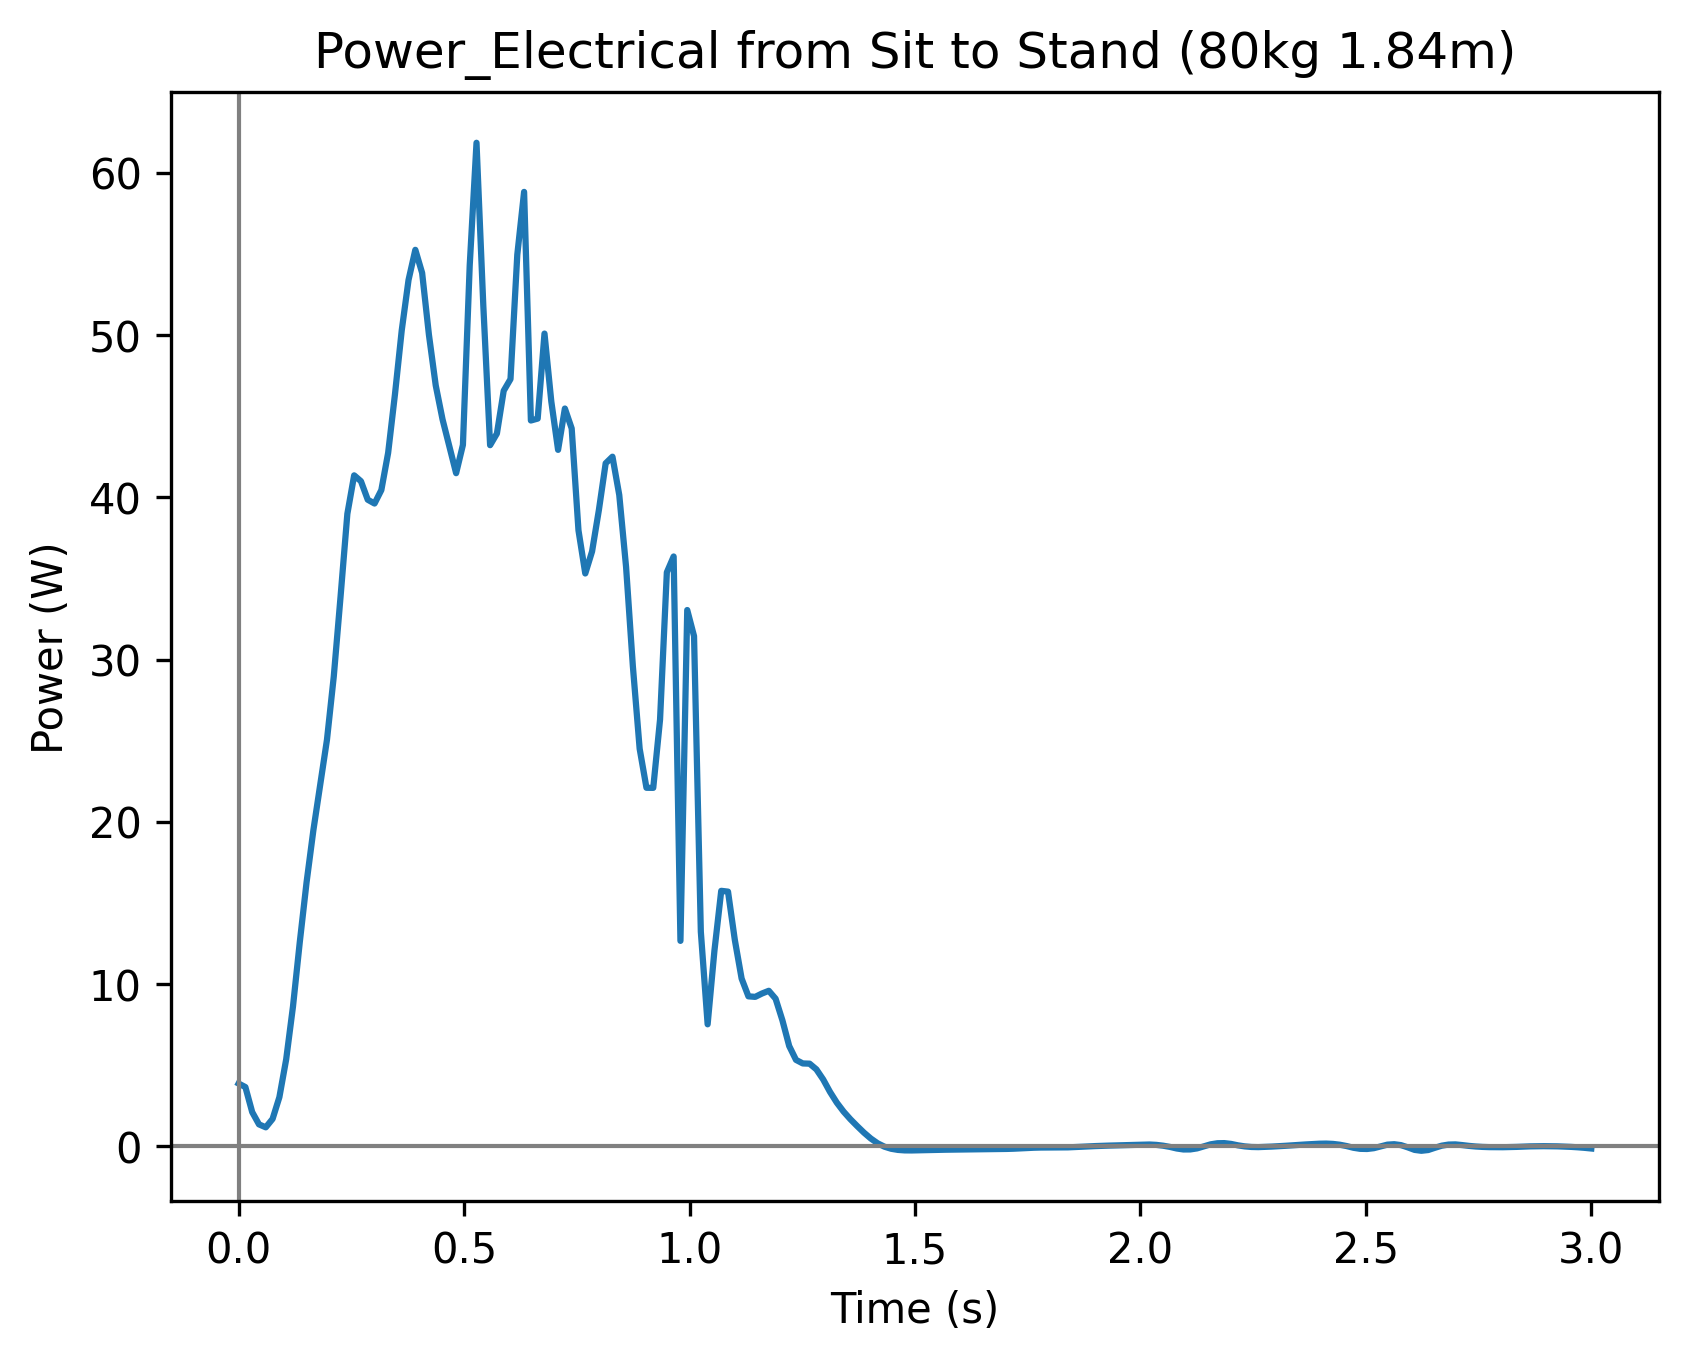
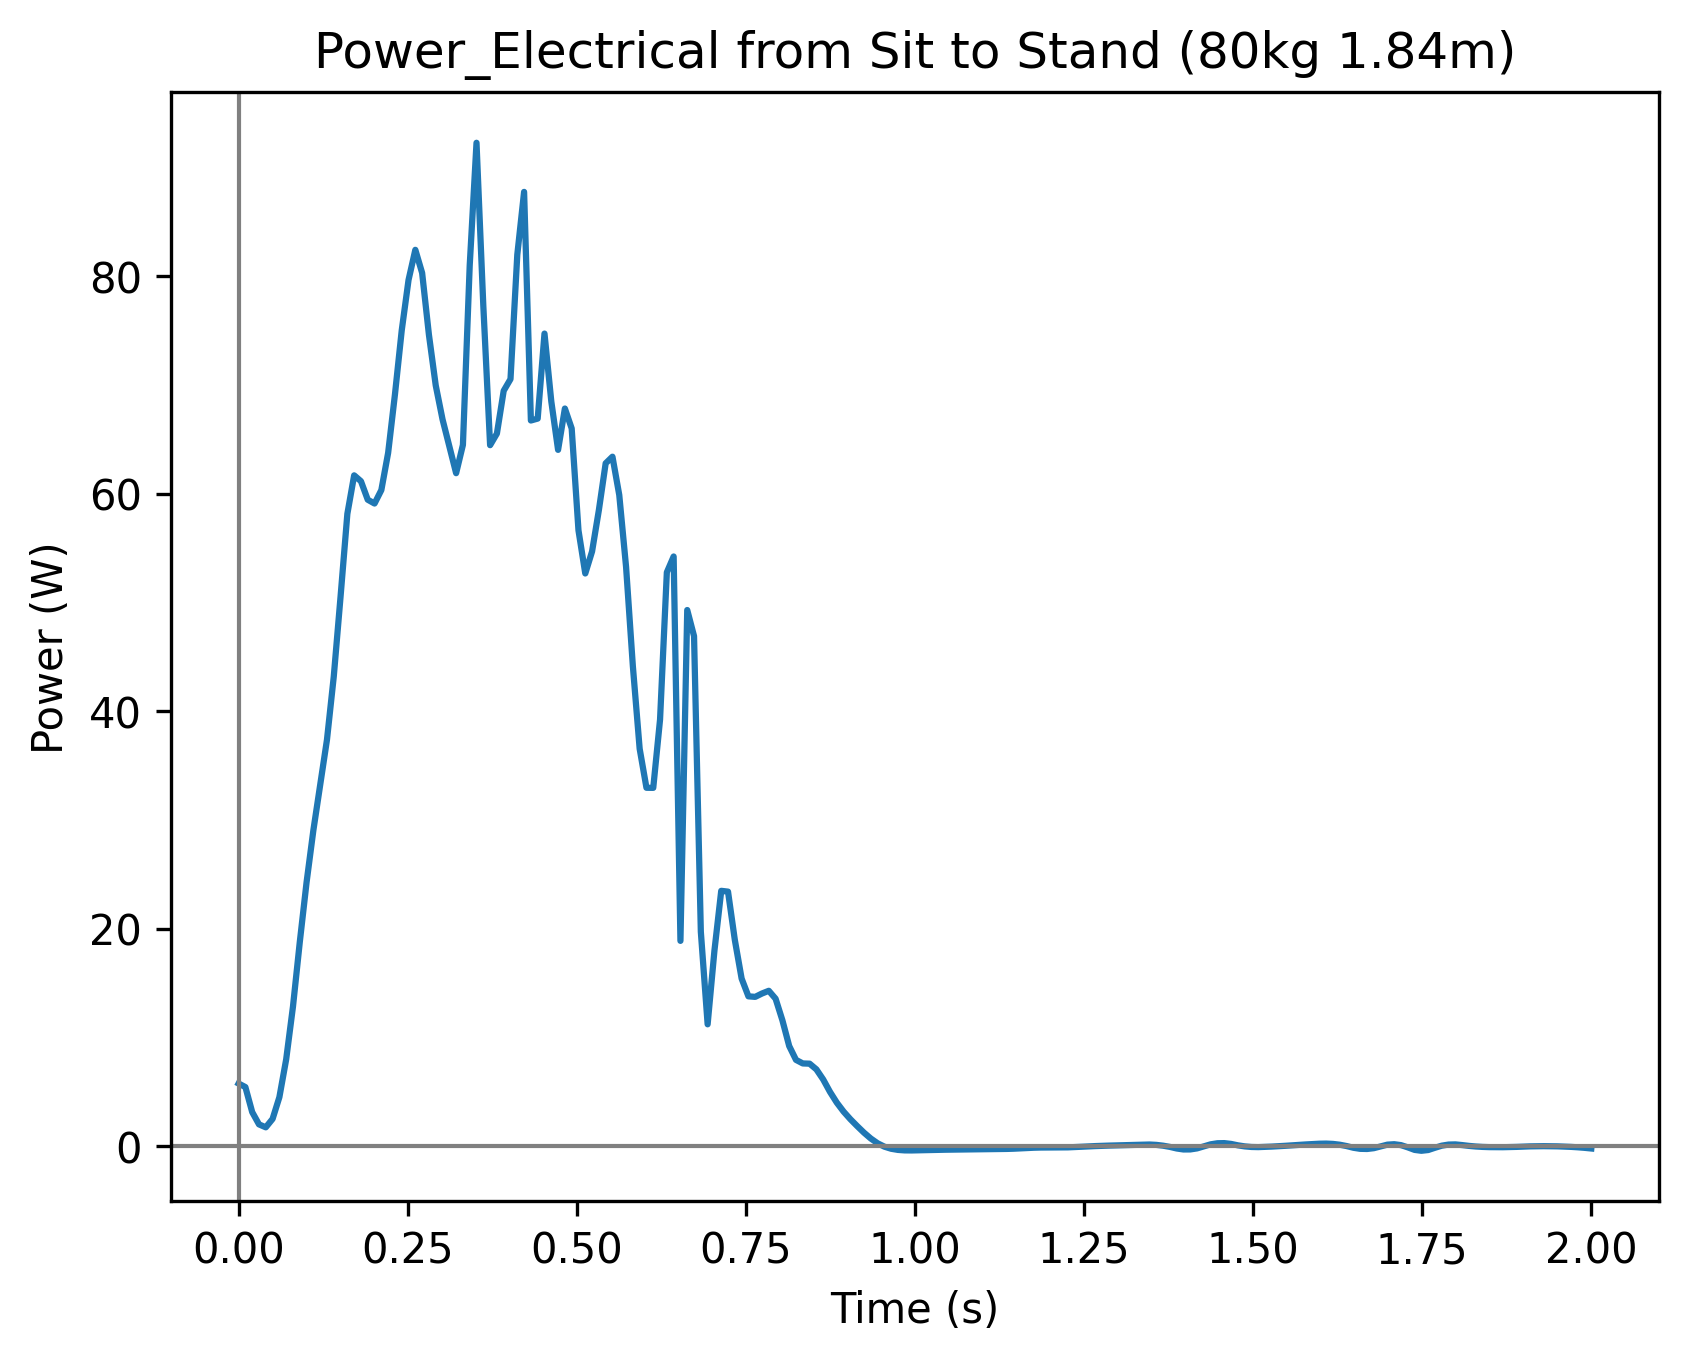
code

diff --git a/Model_1/main.py b/Model_1/main.py
@@ -76,13 +76,23 @@ a_x = []
 a_y = []
 
 # Inputs for dataset 3
+subject_mass = 80
+subject_height = 1.84
+
+#sit to stand
 a3_x = []
 a3_y = []
 t3_x = []
 t3_y = []
 
-total_time = 3.0
+total_time = 2.0
+#stand to sit
+a3_xn = []
+a3_yn = []
+t3_xn = []
+t3_yn = []
 
+total_timen = 1
 
 # ============================================================
 #  CSV LOADING FUNCTIONS (TORQUE, ANGLE, THETA2, GAIT, etc.)
@@ -225,6 +235,36 @@ def get_csv_torque3_data():
                 t3_x.append(float(row[time_col_idx]))
                 t3_y.append(float(row[angle_col_idx]))
 
+def get_csv_angle3n_data():
+    """
+    Load sit-to-stand angle vs time from SitToStandAngles.csv.
+    """
+    a3_xn.clear()
+    a3_yn.clear()
+    with open('standtosit_angles.csv', 'r', newline='') as power_file:
+        file_reader = csv.reader(power_file)
+        header = next(file_reader)
+        time_col_idx  = 0
+        angle_col_idx = 1
+        for row in file_reader:
+            if len(row) > angle_col_idx:
+                a3_xn.append(float(row[time_col_idx]))
+                a3_yn.append(180.0 - float(row[angle_col_idx]))
+def get_csv_torque3n_data():
+    """
+    Load sit-to-stand torque vs time from SitToStandAngles.csv.
+    """
+    t3_xn.clear()
+    t3_yn.clear()
+    with open('standtosit_torque.csv', 'r', newline='') as power_file:
+        file_reader = csv.reader(power_file)
+        header = next(file_reader)
+        time_col_idx  = 0
+        angle_col_idx = 1
+        for row in file_reader:
+            if len(row) > angle_col_idx:
+                t3_xn.append(float(row[time_col_idx]))
+                t3_yn.append(float(row[angle_col_idx]))
 
 # ============================================================
 #  SPLINE SETUP FOR TORQUE / ANGLE / THETA2
@@ -266,10 +306,18 @@ def f_theta_2(t):
 get_csv_angle3_data()
 get_csv_torque3_data()
 
+get_csv_angle3n_data()
+get_csv_torque3n_data()
+
 cs_ang3 = CubicSpline(a3_x,a3_y)
 cs_tor3 = CubicSpline(t3_x,t3_y)
 
+cs_ang3n = CubicSpline(a3_xn,a3_yn)
+cs_tor3n = CubicSpline(t3_xn,t3_yn)
+
 dcs_ang3 = cs_ang3.derivative()
+dcs_ang3n = cs_ang3n.derivative()
+
 
 def omega3_phase(p):
     """
@@ -287,9 +335,23 @@ def omega3_time(t):
     """
     p = t / total_time
     return omega3_phase(p)
+def omega3n_phase(p):
+    """
+    Angular velocity (rad/s) as a function of *phase* p in [0,1].
+    Converts derivative wrt phase into derivative wrt time.
+    """
+    deg_per_phase = dcs_ang3n(p)              # dθ/dphase (deg per 1.0)
+    deg_per_sec   = deg_per_phase  / total_timen
+    return deg_per_sec * (math.pi / 180.0)   # convert to rad/s
 
-subject_mass = 80
-subject_height = 1.85
+
+def omega3n_time(t):
+    """
+    Angular velocity (rad/s) as a function of real time t.
+    """
+    p = t / total_timen
+    return omega3n_phase(p)
+
 
 def torque3_phase(p):
     """
@@ -305,13 +367,27 @@ def torque3_time(t):
     """
     p = t / total_time
     return torque3_phase(p)
+def torque3n_phase(p):
+    """
+    Real torque (N·m) from normalized torque curve digitized from the paper.
+    """
+    tau_norm = cs_tor3n(p)  # normalized torque (N·m/(kg·m))
+    return tau_norm * subject_height * subject_mass
+
+
+def torque3n_time(t):
+    """
+    Real torque (N·m) as a function of time.
+    """
+    p = t / total_timen
+    return torque3n_phase(p)
+
 
 def power3(t):
     return torque3_time(t)*omega3_time(t)
-def angular_velocity3(t):
-    return dcs_ang3(t)
-def torque3(t):
-    return cs_tor3(t)
+def power3n(t):
+    return torque3n_time(t)*omega3n_time(t)
+
 
 # ============================================================
 #  PLOTTING: TORQUE, POWER, ANGLES
@@ -361,7 +437,7 @@ def angle_plots():
 
 def powerelec3_plots():
     """
-    Plot theta2 vs time over a [0, 3] s interval using cs_theta_2.
+    Plot angular velocity * torque, with both as functions of time to get the equivalent electrical Power.
     """
     time_vals   = np.linspace(0.0, total_time, 200)
     power_vals = [power3(t) for t in time_vals]
@@ -373,6 +449,17 @@ def powerelec3_plots():
     plt.xlabel('Time (s)')
     plt.ylabel('Power (W)')
     plt.savefig("power.png", dpi=300, bbox_inches="tight")
+
+    time2_vals   = np.linspace(0.0, total_timen, 200)
+    power2_vals = [abs(power3n(t)) for t in time2_vals]
+    plt.figure(11)
+    plt.plot(time2_vals, power2_vals)
+    plt.axhline(y=0, color='gray', linestyle='-', linewidth=1)
+    plt.axvline(x=0, color='gray', linestyle='-', linewidth=1)
+    plt.title('Power_Electrical from Stand to Sit (80kg 1.84m)')
+    plt.xlabel('Time (s)')
+    plt.ylabel('Power (W)')
+    plt.savefig("power2.png", dpi=300, bbox_inches="tight")
 # ============================================================
 #  ANALYTIC SIT-TO-STAND MODEL (TANH-BASED ANGLE)
 # ============================================================
